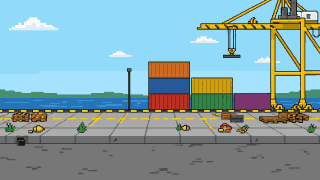
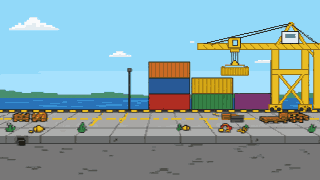
The sports corner set, a crane and a tower clear of the clock, water that shimmers only on water, and costumes for the town's trades
- studio_sports: the sports desk, a guest's swivel chair, the stadium on the
  big screen, a results board and the trophy cabinet (Qwen, picked from four).
- The loading dock redrawn day and night with the whole crane below the clock;
  the fire station's drill tower one window bay shorter, clear of it too.
- The water shimmer touches only the art's own water pixels inside the WATER
  rects (_water_mask), so it keeps off containers, ramps, boats and quays; the
  slipway and estuary rects take in all their water.
- Costumes for the town's trades: aprons by trade, hi-vis vests, a tape
  measure, a club scarf, a peaked cap, the sweep's soot, the clockmaker's
  loupe; the MP gets the suit.

diff --git a/newsroom/sprites.py b/newsroom/sprites.py
@@ -47,9 +47,9 @@ class Look:
     tie: RGB | None = None
     facial: str = ""               # stubble beard moustache
     glasses: str = ""              # on up shades
-    hat: str = ""                  # cap beanie flatcap
+    hat: str = ""                  # cap beanie flatcap peaked
     hat_col: RGB = (40, 50, 80)
-    extra: str = ""                # lanyard pen chain collar earrings stripe
+    extra: str = ""                # lanyard pen chain collar earrings stripe apron hivis tape scarf soot
     extra_col: RGB = GOLD
     mouth: str = "line"            # line smile smirk
     brows: str = ""                # raised
@@ -109,7 +109,34 @@ TOPS = [(70, 90, 80), (110, 70, 90), (160, 130, 60), (50, 70, 120), (120, 120, 1
 UNDERS = [(240, 240, 236), (235, 225, 210), (200, 210, 230), (250, 240, 200), (220, 200, 210)]
 
 # Role words that dress a guest: (words, look changes). The first rule that matches wins.
+LEATHER, CANVAS, DENIM = (120, 78, 46), (150, 136, 104), (60, 86, 130)
 COSTUMES: list[tuple[tuple[str, ...], dict]] = [
+    # trades and shops, from the town's own roles (2026-10-27): ahead of the broader words below
+    (("cobbler", "saddler", "leather", "bookbinder", "blacksmith", "smith", "farrier", "cooper"),
+     dict(top_style="tshirt", top=(220, 214, 196), extra="apron", extra_col=LEATHER)),
+    (("chip", "chippy", "fishmonger", "butcher", "greengrocer", "grocer"),
+     dict(top_style="tshirt", top=(70, 110, 150), extra="apron", extra_col=(236, 236, 230))),
+    (("coffee", "barista", "tea room", "tearoom"),
+     dict(top_style="tshirt", top=(40, 40, 46), extra="apron", extra_col=(110, 70, 40))),
+    (("printer", "print", "stationer", "newsagent"),
+     dict(top_style="tshirt", top=(200, 200, 205), extra="apron", extra_col=(60, 64, 72))),
+    (("hardware", "ironmonger", "tool", "ladder", "crockery", "kettle", "shopkeeper", "proprietor"),
+     dict(top_style="jumper", top=(120, 40, 40), extra="apron", extra_col=CANVAS)),
+    (("mechanic", "garage", "bicycle", "bike", "plumber"),
+     dict(top_style="tshirt", top=(200, 200, 205), extra="apron", extra_col=DENIM)),
+    (("electrician", "roofer", "builder", "scaffold", "labourer", "joiner", "carpenter", "roadworks", "engineer"),
+     dict(top_style="jacket", top=(60, 64, 72), extra="hivis", extra_col=(226, 232, 44))),
+    (("tailor", "seamstress", "dressmaker", "alterations", "upholsterer"),
+     dict(top_style="cardigan", extra="tape", extra_col=(236, 200, 40))),
+    (("fc", "football", "footballer", "striker", "goalkeeper", "supporter", "rugby", "cricket"),
+     dict(top_style="jacket", top=(30, 50, 100), extra="scarf", extra_col=(60, 150, 210))),
+    (("taxi", "cab", "driver", "chauffeur", "ticket", "conductor", "postmistress", "postmaster", "postman",
+      "postwoman", "post office"),
+     dict(top_style="uniform", top=(30, 40, 70), under=(220, 220, 225), hat="peaked", hat_col=(30, 40, 70))),
+    (("sweep",), dict(top_style="jacket", top=(36, 36, 40), under=(36, 36, 40), hat="flatcap",
+                      hat_col=(30, 30, 34), extra="soot", extra_col=(70, 70, 74))),
+    (("clockmaker", "watchmaker", "jeweller", "horologist", "antique"),
+     dict(top_style="suit", top=(110, 90, 66), tweed=True, glasses="up")),
     (("fire",), dict(top_style="uniform", top=(30, 34, 50), under=(30, 34, 50), extra="stripe",
                      extra_col=(230, 200, 40))),
     (("police", "constable", "inspector", "sergeant", "detective"),
@@ -127,7 +154,7 @@ COSTUMES: list[tuple[tuple[str, ...], dict]] = [
      dict(top_style="jacket", top=(84, 100, 60), hat="flatcap", hat_col=(110, 96, 70))),
     (("doctor", "nurse", "gp", "surgery", "paramedic", "vet"),
      dict(top_style="tshirt", top=(70, 140, 150), under=(70, 140, 150))),
-    (("councillor", "mp", "minister", "solicitor", "director", "manager", "chief", "chair", "officer",
+    (("councillor", "mp", "parliament", "minister", "solicitor", "director", "manager", "chief", "chair", "officer",
       "clerk", "estate agent", "developer", "businessman", "businesswoman"),
      dict(top_style="suit")),
     (("teacher", "head", "librarian", "historian", "society", "archivist", "professor", "author"),
@@ -285,6 +312,27 @@ def _body(p: _Pen, L: Look) -> None:
         p(L.extra_col, -1, 26, 2, 2)
     elif L.extra == "collar":
         p(WHITE, -1, 17, 2, 2)
+    elif L.extra == "apron":                                  # a bib apron: straps over the shoulders
+        a = L.extra_col
+        p(a, -5, 17, 1, 5); p(a, 4, 17, 1, 5)
+        p.rows(a, [(r, -6, 5) for r in range(22, 37)])
+        p(_dark(a, 0.75), -6, 22, 12, 1); p(_dark(a, 0.8), -3, 30, 6, 1)   # the bib's top, a pocket
+    elif L.extra == "hivis":                                  # a high-visibility vest, open at the front
+        v, band = L.extra_col, (225, 225, 225)
+        p.rows(v, [(r, -12, -4) for r in range(19, 37)] + [(r, 3, 11) for r in range(19, 37)])
+        for r in (27, 31):
+            p(band, -12, r, 9, 1); p(band, 3, r, 9, 1)
+    elif L.extra == "tape":                                   # a tape measure round the neck
+        for x in (-5, 4):
+            p(L.extra_col, x, 17, 1, 17)
+            for r in range(18, 34, 2):
+                p(_dark(L.extra_col, 0.6), x, r)
+    elif L.extra == "scarf":                                  # a club scarf in stripes, one end hanging
+        stripes = (L.extra_col, WHITE)
+        for r in range(16, 19):
+            p(stripes[r % 2], -5, r, 10, 1)
+        for r in range(19, 31):
+            p(stripes[(r // 2) % 2], 2, r, 3, 1)
 
 
 def _head(p: _Pen, L: Look, mouth: float, blink: bool) -> None:
@@ -298,6 +346,9 @@ def _head(p: _Pen, L: Look, mouth: float, blink: bool) -> None:
     p(_dark(skin, 0.8), -8, 7, 1, 2)
     if L.extra == "earrings":
         p(L.extra_col, -8, 10)
+    if L.extra == "soot":                                     # the chimney sweep's smudges
+        for d, r in ((2, 9), (3, 10), (-4, 11), (-5, 10)):
+            p(L.extra_col, d, r)
     if L.freckles:
         for d, r in ((-3, 9), (-1, 10), (4, 9), (5, 10)):
             p(_dark(skin, 0.85), d, r)
@@ -392,6 +443,11 @@ def _hair_front(p: _Pen, L: Look) -> None:
     elif L.hat == "flatcap":
         p.rows(L.hat_col, [(-1, -7, 6), (0, -8, 8), (1, -8, 9)])
         p(_dark(L.hat_col, 0.7), 3, 2, 7, 1)
+    elif L.hat == "peaked":                                   # a uniform cap: flat crown, band, badge, peak
+        p.rows(L.hat_col, [(-3, -7, 6), (-2, -8, 7), (-1, -7, 6), (0, -7, 6)])
+        p((20, 20, 24), -7, 1, 14, 1)
+        p(GOLD, -1, -1, 2, 1)
+        p((20, 20, 24), 1, 2, 9, 1)
 
 
 def _beat(who: str, look: Look | None) -> float:
@@ -435,6 +491,14 @@ SAMPLE_GUESTS = [
     ("Jade Okoro", "bf_isabella", "Student"), ("Dev Sharma", "am_puck", "Farmer"),
     ("Lola Vance", "af_bella", "Singer"), ("Priya Nair", "bf_emma", "GP"), ("Gary Bright", "bm_daniel", "resident"),
     ("Moira Teague", "af_aoede", "resident"),
+    ("Arthur Penhale", "am_adam", "cobbler, Harrow Street"), ("Nuala Brennan", "af_sarah", "owner, Gull's Rest Fish & Chips"),
+    ("Kit Anand", "af_river", "coffee stall owner"), ("Ross Daly", "bm_lewis", "printer, Saltmarsh Print & Copy"),
+    ("Jasper Fowle", "am_echo", "owner, Fowle & Sons Hardware"), ("Sam Okafor", "am_adam", "bicycle mechanic"),
+    ("Dougal Crane", "bm_daniel", "roofer, Port Wexley"), ("Rhiannon Lusk", "af_jessica", "electrician"),
+    ("Edie Marsh", "af_nova", "seamstress, Main Street"), ("Gil Tarrant", "am_echo", "Secretary, Wexley Gulls FC"),
+    ("Kenji Okonkwo", "am_adam", "taxi driver, Okonkwo's Taxis"), ("Wyn Prosser", "af_sky", "Saltby postmistress"),
+    ("Albert Soames", "am_santa", "chimney sweep"), ("Hector Vane", "bm_fable", "clockmaker, Wexley Town Hall"),
+    ("Fern Odell", "af_alloy", "ticket collector"), ("Sir Giles Wren", "bm_lewis", "Member of Parliament"),
 ]
 
 

diff --git a/newsroom/backdrops.py b/newsroom/backdrops.py
@@ -43,18 +43,19 @@ GLASS = (60, 75, 95)
 LIT = (255, 214, 130)
 WATER_C, WATER_HI = (55, 95, 135), (80, 125, 165)
 
-# Where water is visible, for the shimmer overlay. Art for these ids should
-# keep its water in the same places.
+# Where to look for water, for the shimmer overlay. The shimmer only touches the art's own
+# water pixels inside these (`_water_mask`), so they can be generous; keep them below the sky,
+# which is blue too.
 WATER: dict[str, list[tuple[int, int, int, int]]] = {
     "harbour": [(140, 110, 180, 70)],
     "cannery": [(200, 124, 120, 56)],
-    "slipway": [(120, 106, 200, 10), (250, 116, 70, 64)],
+    "slipway": [(100, 106, 220, 74)],
     "loading_dock": [(0, 100, W, 12)],
     "lighthouse": [(0, 100, 175, 16)],
     "lifeboat_station": [(0, 104, 190, 12), (270, 104, 50, 8)],
     "seafront": [(0, 84, W, 22)],
     "coast_road": [(190, 72, 130, 108)],
-    "estuary": [(0, 106, W, 20)],
+    "estuary": [(0, 106, W, 20), (170, 145, 150, 30)],
 }
 LIGHTHOUSE_LAMP = (251, 21)
 
@@ -800,6 +801,61 @@ def _studio_late(p: _Paint) -> None:
     p.poly((245, 205, 130), [(153, 112), (169, 112), (165, 102), (157, 102)])
 
 
+TIDES = ((40, 110, 190), (240, 240, 235))                       # Tidewater Town: sea blue and white
+
+
+@_painter("studio_sports")
+def _studio_sports(p: _Paint) -> None:
+    """The sports corner of the main studio: the stadium on the big screen, a blank results board
+    the scenes can fill, the trophy cabinet and the scarves."""
+    p.rect(p.loc.sky, 0, 0, W, H)
+    for x in range(0, W, 32):
+        p.rect((42, 50, 80), x, 0, 1, 128)
+    for x in range(30, W, 60):                                   # ceiling spots
+        p.rect((90, 90, 100), x, 0, 6, 4)
+    p.rect(p.loc.ground, 0, 128, W, H - 128)
+    p.rect((80, 68, 64), 0, 128, W, 2)
+    p.rect((18, 18, 24), 84, 12, 116, 60)                        # big screen: the stadium
+    p.s.blit(picture("stadium", "day", None, (108, 52)), (88, 16))
+    p.rect((18, 18, 24), 206, 12, 64, 60)                        # results board, rows left blank
+    p.rect((24, 34, 70), 210, 16, 56, 52)
+    for i in range(6):
+        y = 19 + i * 8
+        p.rect(TIDES[0] if i % 2 == 0 else (190, 40, 40), 213, y, 5, 5)
+        p.rect((70, 84, 120), 220, y, 30, 5)
+        p.rect((230, 230, 230), 253, y, 4, 5)
+        p.rect((230, 230, 230), 259, y, 4, 5)
+    wood = (110, 75, 50)                                         # trophy cabinet, clear of the presenter
+    p.rect(wood, 8, 28, 50, 100)
+    p.rect((50, 64, 90), 12, 32, 42, 92)
+    for y in (54, 80, 106):
+        p.rect((170, 200, 215), 12, y, 42, 2)
+    gold, silver = (220, 180, 60), (200, 205, 215)
+    for x, y, c in ((18, 54, gold), (36, 54, silver), (16, 80, silver), (34, 80, gold), (24, 106, gold), (42, 106, silver)):
+        p.poly(c, [(x, y - 14), (x + 10, y - 14), (x + 7, y - 7), (x + 3, y - 7)])
+        p.rect(c, x + 4, y - 7, 2, 4)
+        p.rect(_shade(c, 0.7), x + 2, y - 3, 6, 3)
+    p.rect((150, 150, 160), 276, 24, 40, 2)                      # scarves on a rail
+    for i, (a, b) in enumerate((TIDES, ((190, 40, 40), (30, 30, 30)), (TIDES[0], (240, 200, 60)))):
+        x = 279 + i * 12
+        for y in range(26, 106, 6):
+            p.rect(a if (y // 6) % 2 == 0 else b, x, y, 8, 6)
+        for fx in range(x, x + 8, 2):
+            p.rect(b, fx, 106, 1, 4)
+    host, guest = MARKS["studio_sports"]["host"], MARKS["studio_sports"]["guest"]
+    top = host[1] - 4                                            # desk top just above the baseline: they stand behind it
+    p.rect((210, 210, 215), host[0] - 40, top, 80, 4)
+    p.rect((40, 46, 70), host[0] - 36, top + 4, 72, 30)
+    p.rect(TIDES[0], host[0] - 36, top + 10, 72, 3)
+    p.rect((200, 40, 40), host[0] - 36, top + 14, 72, 2)
+    blue = TIDES[0]                                              # the guest's swivel chair
+    p.ellipse(_shade(blue, 0.8), guest[0] - 24, guest[1] - 52, 48, 14)
+    p.rect(_shade(blue, 0.8), guest[0] - 24, guest[1] - 46, 48, 44)
+    p.rect(blue, guest[0] - 30, guest[1] - 2, 60, 6)
+    p.rect((150, 150, 160), guest[0] - 2, guest[1] + 4, 4, 14)
+    p.ellipse((110, 110, 120), guest[0] - 16, guest[1] + 16, 32, 6)
+
+
 def _generic(p: _Paint) -> None:
     """Any location without its own painter: the original blocks."""
     _ground(p)
@@ -1026,16 +1082,44 @@ def _fog_layer() -> pygame.Surface:
     return _fog
 
 
-def _shimmer(canvas: pygame.Surface, rects, tod: str, t: float) -> None:
+_water_masks: dict[str, pygame.Surface] = {}
+_shimmer_buf: pygame.Surface | None = None
+
+
+def _water_mask(loc_id: str) -> pygame.Surface:
+    """Where the art itself shows water inside the WATER rects, as an alpha mask: the shimmer
+    keeps off the quays, ramps, boats and containers the art draws there. Taken once from the
+    day picture; the night art lines up with it."""
+    m = _water_masks.get(loc_id)
+    if m is None:
+        rgb = pygame.surfarray.array3d(surface(loc_id, "day", None)).astype(np.int16)
+        water = (rgb[..., 2] > rgb[..., 0] + 25) & (rgb[..., 2] >= rgb[..., 1])
+        inside = np.zeros((W, H), bool)
+        for x0, y0, w, h in WATER[loc_id]:
+            inside[x0:x0 + w, y0:y0 + h] = True
+        m = pygame.Surface((W, H), pygame.SRCALPHA)
+        m.fill((255, 255, 255, 255))
+        pygame.surfarray.pixels_alpha(m)[:] = np.where(water & inside, 255, 0).astype(np.uint8)
+        _water_masks[loc_id] = m
+    return m
+
+
+def _shimmer(canvas: pygame.Surface, loc_id: str, tod: str, t: float) -> None:
+    global _shimmer_buf
+    if _shimmer_buf is None:
+        _shimmer_buf = pygame.Surface((W, H), pygame.SRCALPHA)
     c = {"day": (160, 195, 225), "dusk": (230, 170, 140), "night": (70, 85, 125)}[tod]
-    clip = canvas.get_clip()
-    for x0, y0, w, h in rects:
-        canvas.set_clip(pygame.Rect(x0, y0, w, h))
+    buf = _shimmer_buf
+    buf.fill((0, 0, 0, 0))
+    for x0, y0, w, h in WATER[loc_id]:
+        buf.set_clip(pygame.Rect(x0, y0, w, h))
         for i in range(max(3, w * h // 700)):
             x = x0 + (i * 41 + int(t * 10)) % (w + 24) - 24
             y = y0 + 2 + (i * 17) % max(1, h - 3)
-            canvas.fill(c, (x, y, 8 + (i % 3) * 5, 1))
-    canvas.set_clip(clip)
+            buf.fill(c, (x, y, 8 + (i % 3) * 5, 1))
+    buf.set_clip(None)
+    buf.blit(_water_mask(loc_id), (0, 0), special_flags=pygame.BLEND_RGBA_MULT)
+    canvas.blit(buf, (0, 0))
 
 
 def _beam(canvas: pygame.Surface, t: float) -> None:
@@ -1085,7 +1169,7 @@ def draw(canvas: pygame.Surface, backdrop_id: str | None, tod: str = "day", wx: 
     if not loc.exterior:
         return
     if loc.id in WATER:
-        _shimmer(canvas, WATER[loc.id], tod, t)
+        _shimmer(canvas, loc.id, tod, t)
     if loc.id == "lighthouse" and tod != "day":
         _beam(canvas, t)
     _weather_fx(canvas, wx, tod, t)

diff --git a/newsroom/locations.py b/newsroom/locations.py
@@ -99,6 +99,8 @@ LOCATIONS: tuple[Location, ...] = (
              "studio", (225, 210, 185), (150, 120, 95)),
     Location("studio_late", "The Last Ferry set", "the late-night show's desk and guest couch, the harbour at night behind",
              "studio", (22, 26, 48), (52, 40, 36)),
+    Location("studio_sports", "the sports corner", "the sports desk: the stadium on the big screen, a results board, the trophy cabinet",
+             "studio", (28, 34, 60), (60, 50, 48)),
 )
 
 # Where people go on the studio sets: (x, baseline y, sprite scale, facing).
@@ -112,6 +114,7 @@ MARKS: dict[str, dict[str, Mark]] = {
     "studio_late": {"host": (92, 136, 2, 1), "guest": (228, 150, 2, -1),    # host just behind the desk top
                     # two on the couch: the new guest nearest the desk, the earlier one moved down
                     "guest_near": (204, 150, 2, -1), "guest_far": (268, 150, 2, -1)},
+    "studio_sports": {"host": (92, 144, 2, 1), "guest": (228, 150, 2, -1)},   # host stands at the desk
 }
 
 BY_ID: dict[str, Location] = {loc.id: loc for loc in LOCATIONS}

diff --git a/TODO.md b/TODO.md
@@ -5,17 +5,16 @@ bottom with the date.
 
 ## Art
 
-- [ ] Re-fit positions set for the placeholders to the art: the lighthouse
-  beam origin, the `WATER` shimmer rectangles (the slipway's top strip), and
-  the crane and drill tower behind the clock box.
-- [ ] Studio sets still to come: a sports corner.
 - [ ] Station audio follow-ups: a 44.1 kHz stereo mixer (everything plays at 24 kHz mono, so
   the music stems are exported that way; Kokoro would need resampling on load); a bed per show
   (the bed is loaded once at start); perhaps a new breaking sting (still the brass version, in
   minor; the user kept it for now).
-- [ ] Optional parallax: two layers per backdrop.
-- [ ] More guest costumes in `sprites.COSTUMES` as new roles turn up (the
-  first match on a role word wins), and perhaps gesture states for presenters.
+- [ ] Optional parallax: two layers per backdrop. A big job: every backdrop is one flat picture, so
+  each (24 days, 14 nights, the studio sets) needs a far layer redrawn without the foreground in
+  ComfyUI and approved by eye, and it only shows when the camera moves, which no shot does yet.
+- [ ] More guest costumes in `sprites.COSTUMES` as new roles turn up (the first match on a role word
+  wins; on 2026-10-27 every role in the town had one but the sea-glass collector), and perhaps gesture
+  states for presenters.
 
 ## Content
 
@@ -94,6 +93,21 @@ bottom with the date.
   `speaker_id`, per-line guest details and "female"/"male".)
 
 ## Done
+
+- 2026-10-27 Art fits: the water shimmer only touches the art's own water pixels inside the `WATER`
+  rects (`backdrops._water_mask`, from the day picture), so it keeps off the loading dock's containers,
+  the slipway's ramp and boat, and the cannery's quay; the slipway and estuary rects now take in all
+  their water (the slipway's channel, the estuary's pool). The fire station's drill tower is one window
+  bay shorter in its day and night art, so it clears the clock box. The lighthouse beam already started
+  at the lamp. Costumes for the town's trades (`sprites.COSTUMES`, approved on a contact sheet): bib
+  aprons in a trade's colours (leather, chip-shop white, coffee, ink, canvas, mechanic's denim), hi-vis
+  vests, a tailor's tape measure, a club scarf, a peaked cap for taxis, tickets and the post office,
+  the sweep's soot, the clockmaker's loupe; the MP gets the suit.
+- 2026-10-27 The loading dock redrawn in ComfyUI (Qwen ref-latent, day seed 101, night seed 404, chosen
+  on a before/after sheet) with the whole crane in the picture, its top at y 22, clear of the clock.
+- 2026-10-27 The sports corner set, `studio_sports` (Qwen seed 202, picked from four): a small sports desk
+  the presenter stands behind (host mark (92, 144)), a swivel chair for a guest (228, 150), the stadium on
+  the big screen, a results board, the trophy cabinet and scarves. No show uses it yet (see Sport).
 
 - 2026-10-27 *The Last Ferry*'s couch and house band. The hour order now has a shorter second guest after
   each main guest's two parts (`Item.target_s`, 100 s, part `couch`), and the main guest stays on for it:

diff --git a/assets/backdrops/README.md b/assets/backdrops/README.md
@@ -23,12 +23,13 @@ Lookup order is the time-of-day file, then `<id>.png`, then the placeholder.
 - **Overlays cover two bands:** the lower third (y 128–154, x 8–270) and the ticker
   (y 166–180). Nothing important goes there. The clock sits at the top right
   (x 276–316, y 4–16) and the LIVE badge at the top left.
-- **Water** shimmers in the rectangles listed in `WATER` in `backdrops.py`.
-  Keep water in roughly the same place, or update those rectangles.
+- **Water** shimmers inside the rectangles listed in `WATER` in `backdrops.py`, but only
+  on pixels the art itself paints as water (blue), so boats, ramps and quays drawn there
+  stay still. Keep water roughly in those rectangles, or widen them (never into the sky).
 - **No people, no text.** Captions are drawn live, and signs would need to change
   with the story.
 - **Studio backdrops** (`studio_wide`, `weather_wall`, `studio_interview`, `studio_sofa`,
-  `studio_late`) are never tinted. The weather scene draws its map at (40, 20, 180, 120) and its side
+  `studio_late`, `studio_sports`) are never tinted. The weather scene draws its map at (40, 20, 180, 120) and its side
   panel at (234, 20, 76, 124); the same screen shows a location for the big-picture
   wall shot.
 
@@ -44,11 +45,12 @@ reaches about 74 px above their baseline.
 | `studio_interview` | host (92, 150), guest (228, 150) | an armchair behind each mark, angled towards each other; a low table between them; a screen or the station ident on the wall between their heads |
 | `studio_sofa` | host_a (122, 146), host_b (186, 146), guest (272, 150) | a two-seat sofa behind both hosts; an armchair at the guest's mark; a window onto the harbour above and behind the sofa; warm morning light |
 | `studio_late` | host (92, 136), guest (228, 150) | The Last Ferry, lights already down: a desk whose top's back edge is just above the host's baseline (they sit behind it, monologue included) and a tall chair behind the shoulders; a long couch behind the guest; the harbour at night through a window between them |
+| `studio_sports` | host (92, 144), guest (228, 150) | the sports corner of the main studio: a small desk the presenter stands behind (its top's back edge just above the host's baseline); a swivel chair behind the guest; the stadium on a big screen and a results board with blank rows above and between their heads; the trophy cabinet on the left, scarves on the right |
 | `studio_wide` | anchor (110, 134) | the desk top at about y 130, across the frame |
 | `weather_wall` | presenter (270, 152) | the two screens at the rectangles above |
 
 The placeholder painters in `backdrops.py` draw the furniture on these marks;
-`--bake studio_interview studio_sofa studio_late` gives you templates with them in place.
+`--bake studio_interview studio_sofa studio_late studio_sports` gives you templates with them in place.
 
 ## Tools
 
